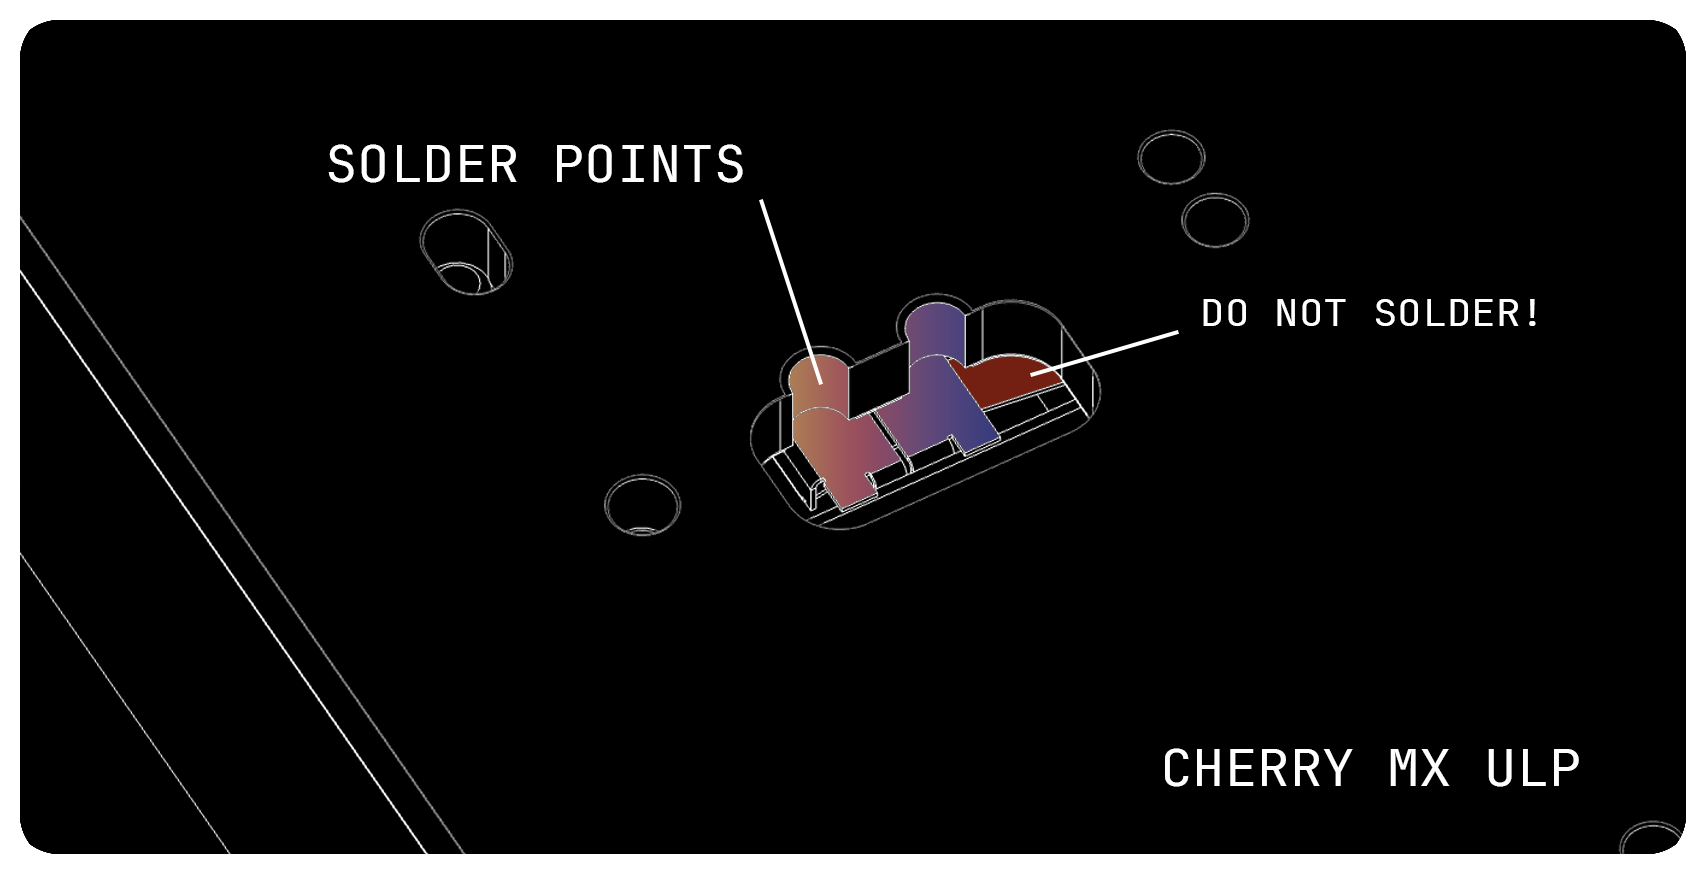
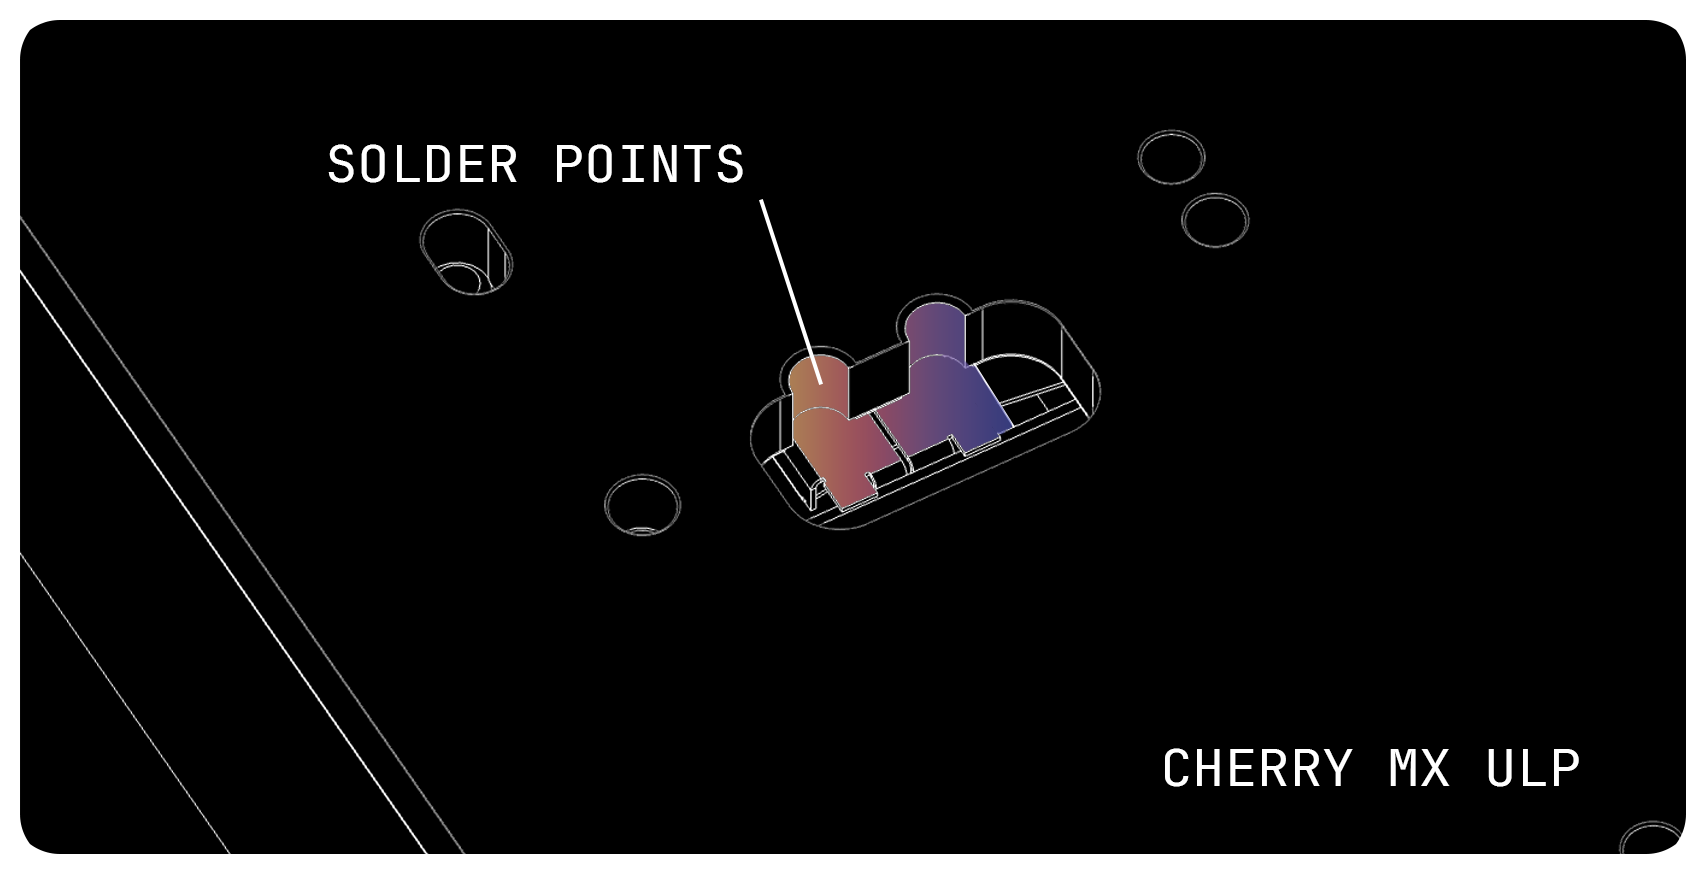
Updated the incorrect image content.

Changed region(s): [[0.6835, 0.3398, 0.9009, 0.3707], [0.5592, 0.4016, 0.6524, 0.4943], [0.6524, 0.3707, 0.6835, 0.4016]]

diff --git a/docs/BUILD_GUIDES.md b/docs/BUILD_GUIDES.md
@@ -75,9 +75,6 @@ Flip the board to solder the switch contact points:
 - Ensure good contact between the switch terminals and the through-hole walls.
 - Use flux and controlled heat so solder bonds properly to both.
 
-> [!WARNING]
-> For **Cherry MX ULP**, the right-side through-hole is positioned slightly outward to maintain compatibility with Kailh PG1316s. Excess solder flowing outward may block switch operation. Aim the solder inward, merging both contacts toward the center.
-
 > [!TIP]
 > Above each switch are two small test pads. Use a multimeter in diode mode to confirm continuity (flow direction: right → left).
 
